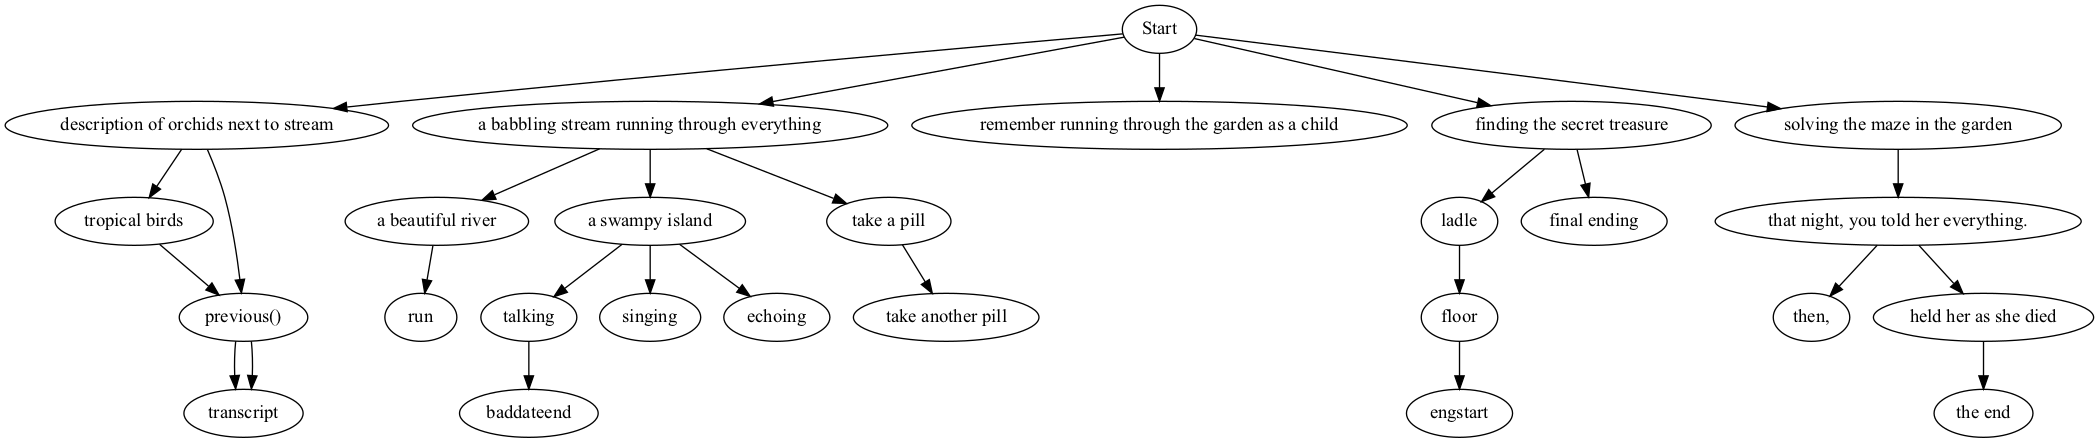
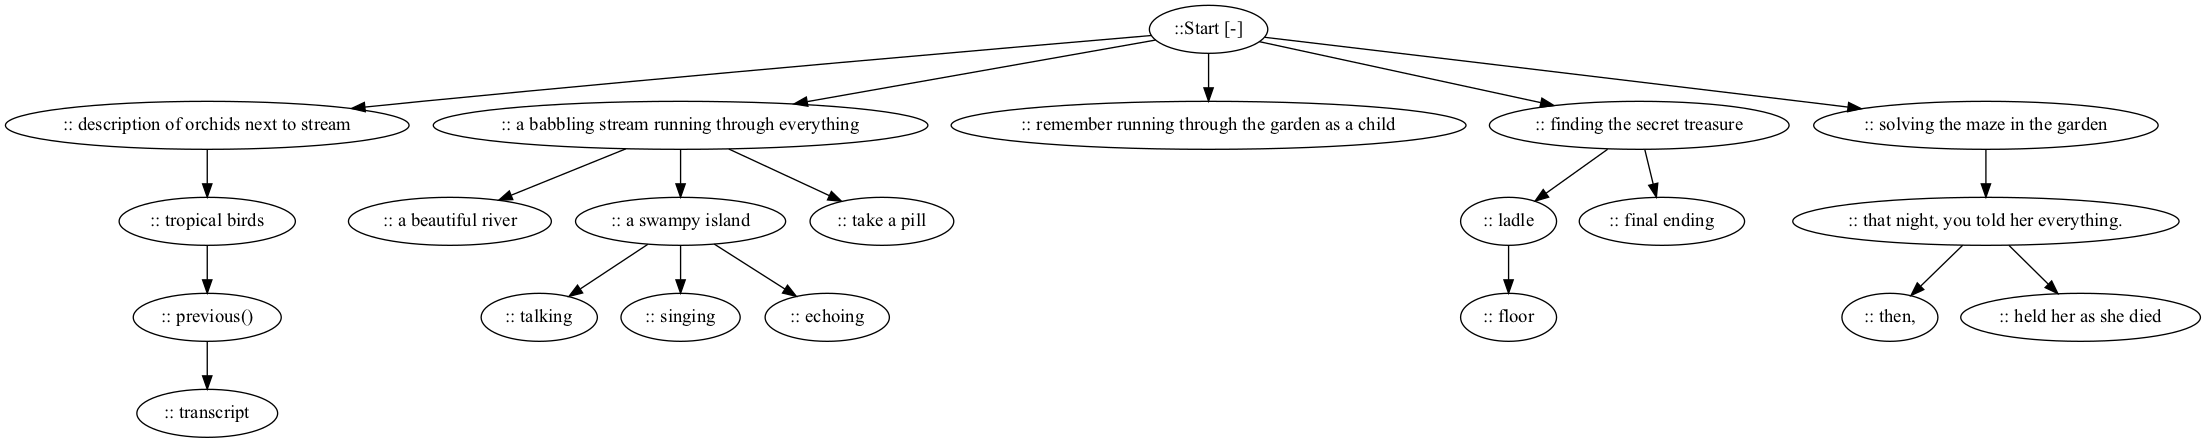
Minimum spanning tree implemented.

diff --git a/src/contextual_tree.py b/src/contextual_tree.py
@@ -23,7 +23,7 @@ class ContextualTweeTree(NodeMixin):
         # the context is all relevant story details along the path from the root to the current node
         self.full_context = (parent.full_context + [parent.narrative_elements]) if (parent and compute_context) else []
         self.context_text = write_context_text(self.full_context)
-        self.name = self.title #+ ': ' + str(self.context_text)  # + " context: " + str(self.context)
+        self.name = self.title  #+ ': ' + str(self.context_text)  # + " context: " + str(self.context)
 
     def __str__(self):
         return f'<ContextualTweeTree {self.name}>'
@@ -74,11 +74,11 @@ class ContextualTweeTree(NodeMixin):
 
         # Create a contextual tree
         root = ContextualTweeTree(start)
-        ContextualTweeTree._traverse_and_create_context(root, passage_dict)
+        ContextualTweeTree._traverse_and_create_context(root, passage_dict, defaultdict(bool))
         return root, passage_dict
 
     @staticmethod
-    def _traverse_and_create_context(node, passage_dict):
+    def _traverse_and_create_context(node, passage_dict, visited):
         """
         Helper method for tree creation.
         Add children to a twee tree by recursively iterating over the links in each twee passage,
@@ -88,17 +88,20 @@ class ContextualTweeTree(NodeMixin):
         :param passage_dict: a mapping from link (title text) to passage
         """
         for link in node.get_links():
+            if visited[link]:
+                continue
             passage = passage_dict.get(link)
             if passage:
                 # create the child and add it to the parent
                 child_node = ContextualTweeTree(passage, title=make_title(link), parent=node)
-                ContextualTweeTree._traverse_and_create_context(child_node, passage_dict)
+                visited[link] = True
+                ContextualTweeTree._traverse_and_create_context(child_node, passage_dict, visited)
             else:
                 print(f"passage {link} does not exist")
 
 
 if __name__ == '__main__':
-    game = './generated_games/the_garden_2.tw'
+    game = './generated_games/the_garden_3.tw'
     print(f'game {game}')
     with open(game) as f:
         twee_str = f.read()

diff --git a/src/spindle.py b/src/spindle.py
@@ -11,7 +11,6 @@ verbose = False
 MAX_GEN_COUNT = 16
 
 data_dir = './generated_games/'
-
 TWEE_DIRS = ['../twee/', './twee/']
 
 
@@ -45,20 +44,6 @@ def get_command(title):
             f'(W/g/f/v/q): '
         ).lower()
     return do_gen
-
-
-#
-# def ask_do_gen(title):
-#     options = [
-#         (f'write {title} yourself', 'w'),
-#         (f'generate {title}', 'g'),
-#         (f'view the written passages.','v'),
-#         (f'generate all remaining passages.','g'),
-#     ]
-#
-#     selection, i = make_selection([c[0] for c in options])
-#
-#     return options[i][1]
 
 
 def select_passage(passages_todo):
